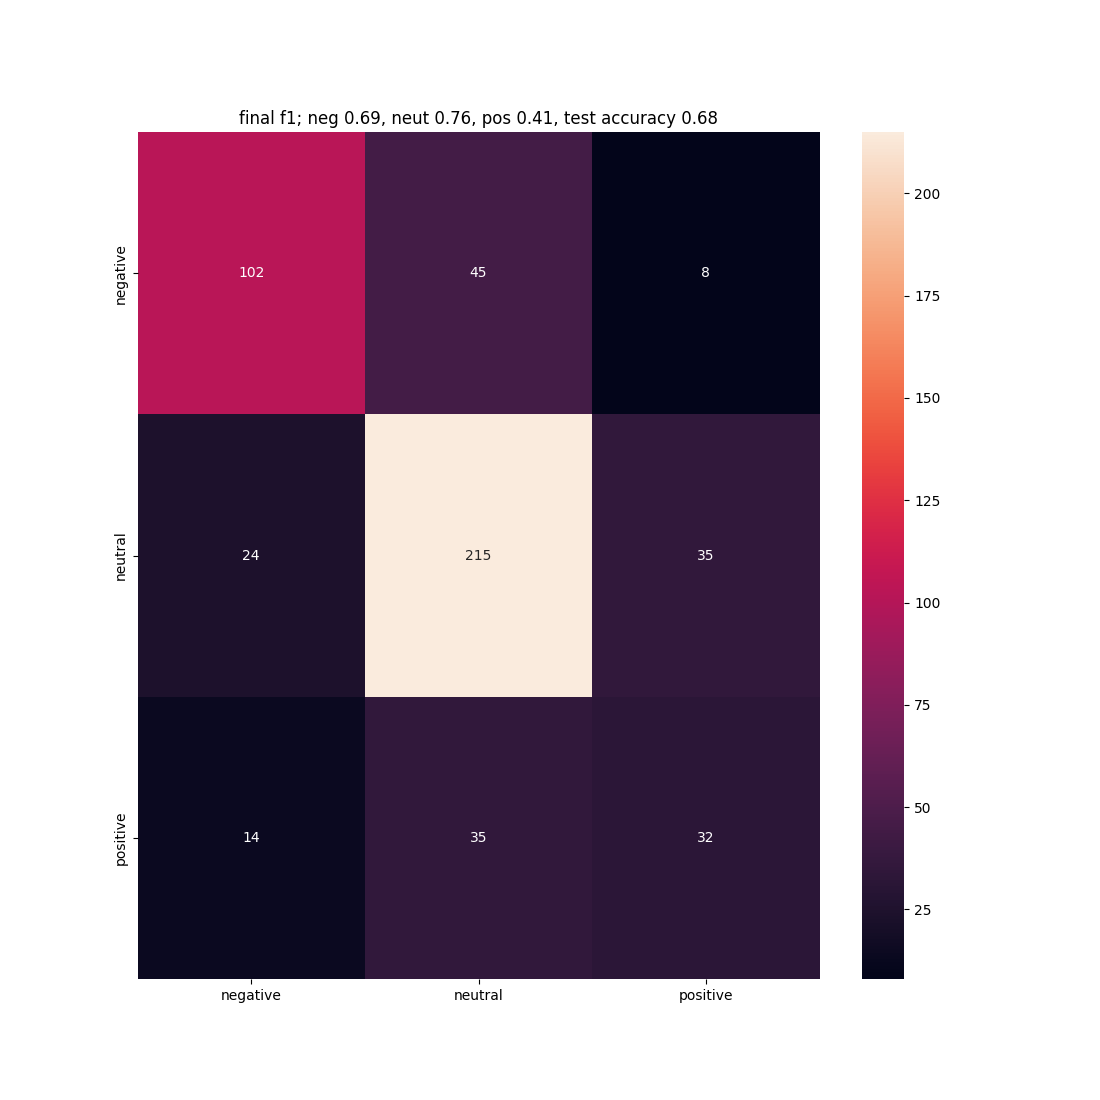
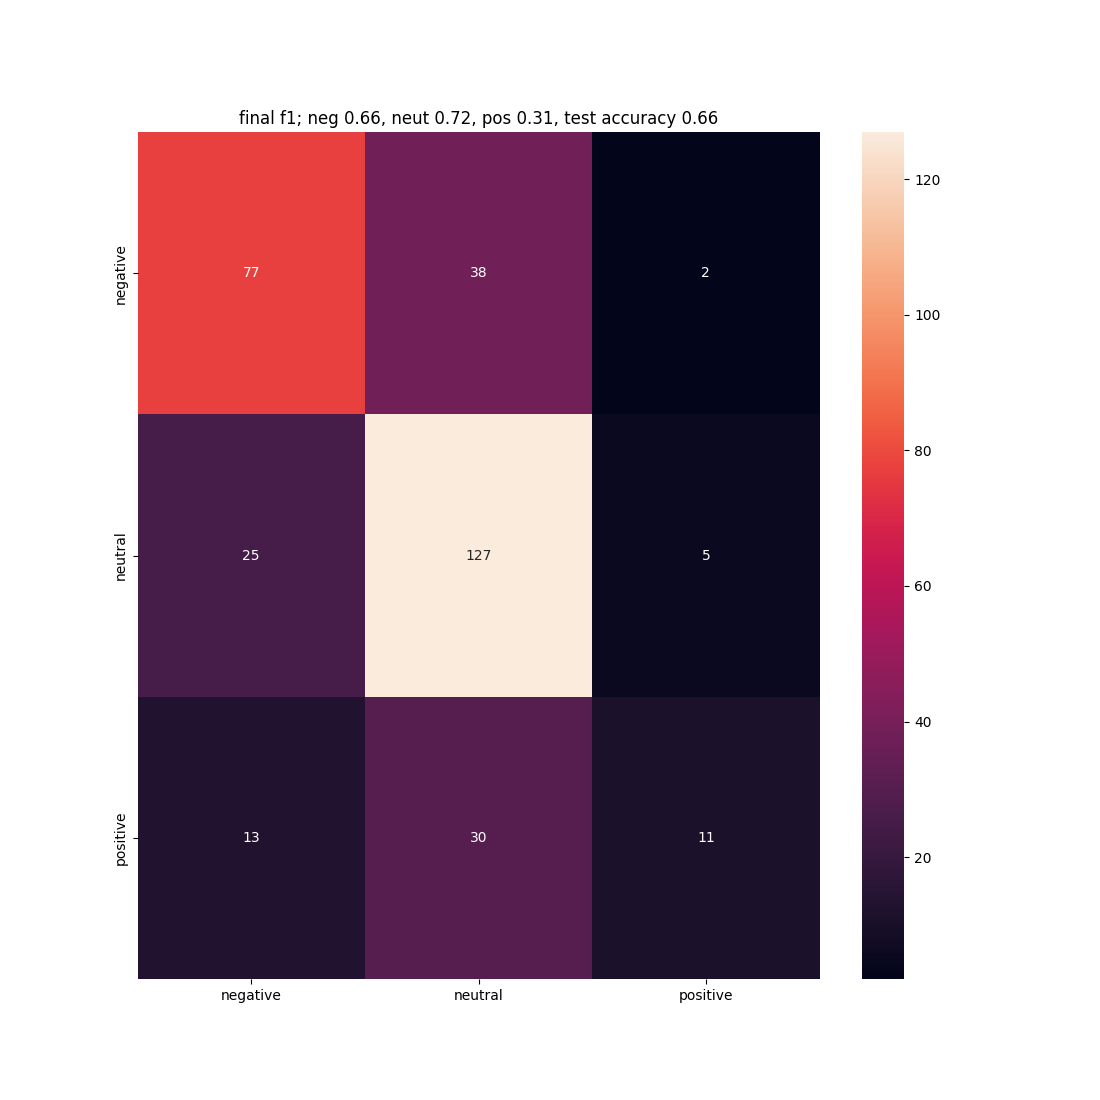
end of day

diff --git a/data/data_utils.py b/data/data_utils.py
@@ -134,12 +134,20 @@ def weak_performer_extractor():
     print(df)
 
 def unskew():
-    df = pd.read_csv('second_rendition_data/.annotation_5000_012label_wli.csv')
+    df = pd.read_csv('annotation_5000_012label_wli.csv')
+    #unfulfilled_mask = data['text'].str.match(r'RT @(?:\w{1,15})\b(?::){0,1} (?:(?:.|\n)+)(?:\.\.\.|…)')
+    rt_mask = df['text'].str.match(r'RT.*')
+    df = df[~rt_mask]
+    print(len(df[df['label'] == 0].index))
+    print(len(df[df['label'] == 1].index))
+    print(len(df[df['label'] == 2].index))
+    print(df.skew())
     pass
 
 if __name__ == '__main__':
-    remove_category()
+    #remove_category()
     #rename_category()
     #skewed_data()
     #weak_performer_extractor()
     #append_csv()
+    unskew()

diff --git a/NorBert_utls/various_methods/roberta_threelabel.py b/NorBert_utls/various_methods/roberta_threelabel.py
@@ -46,6 +46,8 @@ else:
 infile = 'annotation_5000_012label_wli'
 df = pd.read_csv('~/wind_power_analysis/data/'+infile+'.csv', 
                  sep=',', usecols=['text', 'label'], index_col=None)
+rt_mask = df['text'].str.match(r'RT.*')
+df = df[~rt_mask]
 
 #----------------------------------------------------------------------------------------
 df = df.iloc[1:]
@@ -74,7 +76,7 @@ for i in range(0,len(sentences)):
 
 batch_size = 32
 max_length = 300
-epochs = 18
+epochs = 10
 
 # Load the BERT tokenizer.
 tokenizer = AutoTokenizer.from_pretrained('ltgoslo/norbert2', do_lower_case=False)

diff --git a/data/retweet_fulfiller.py b/data/retweet_fulfiller.py
@@ -115,4 +115,4 @@ if __name__ == '__main__':
     #                  'no_unfulfilled_retweets_dropped.csv',  
     #                  drop_unfulfilled = True)
     #test_no_unfilled_retweet()
-    fulfill_retweets('annotaion_3000_012label.csv', 'annotated_fulfilled_3000.csv', True)
+    fulfill_retweets('annotation_5000_012label_wli.csv', 'annotation_5000_012label_wli_fulfilled.csv', True)
